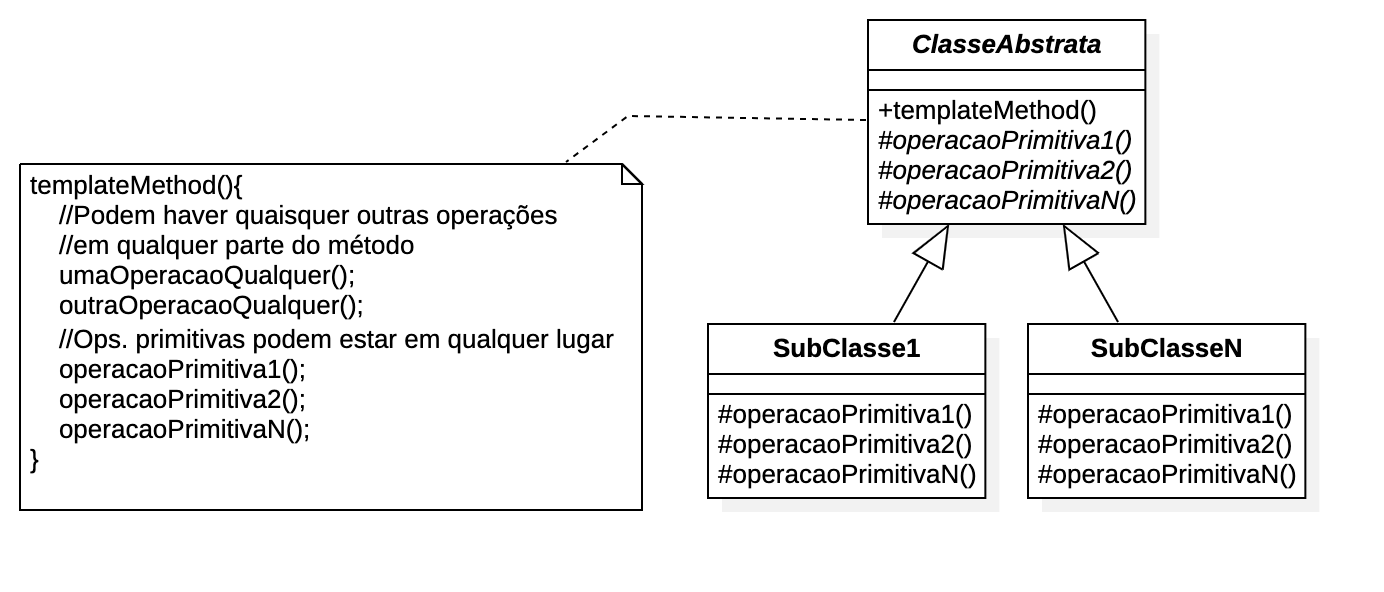
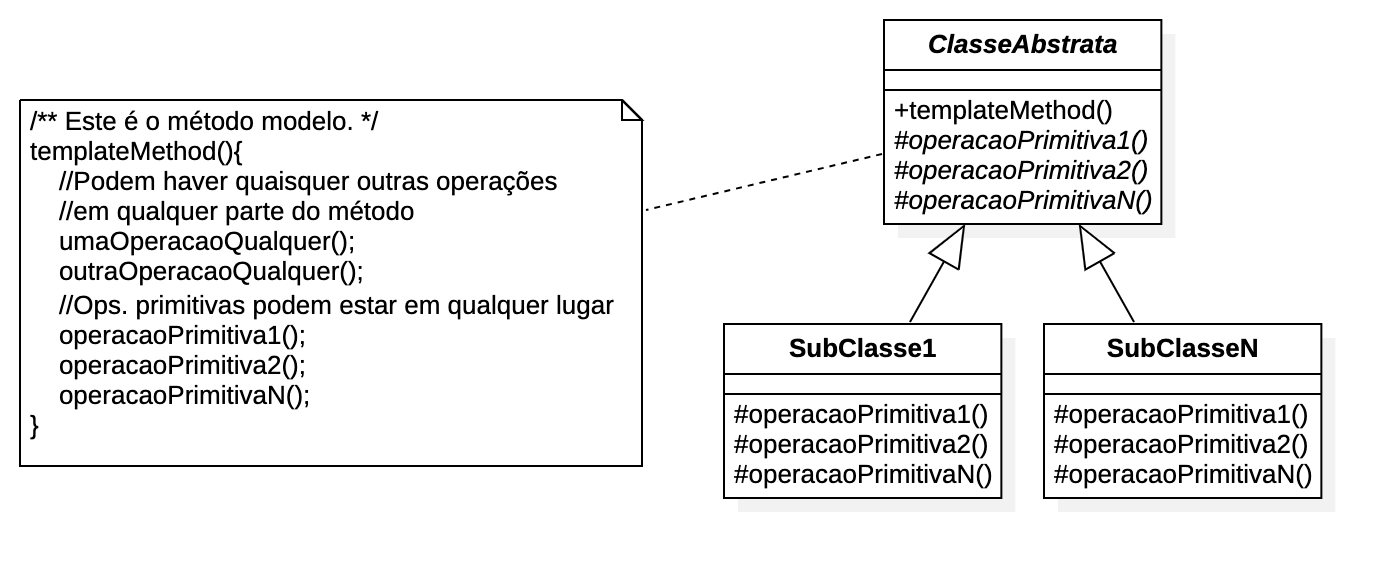
Atualiza projetos Template Method
- Atualiza diagramas.
- Renomeia parâmetros para refletir diagramas.
- Atualiza slides.

Changed region(s): [[0.4971, 0.0311, 0.9632, 0.872], [0.0, 0.1557, 0.4971, 0.8097], [0.0311, 0.8408, 0.466, 0.872]]

diff --git a/comportamentais/template-method/retorno-boleto-template/src/main/java/com/manoelcampos/retornoboleto/LeituraRetornoBancoBrasil.java b/comportamentais/template-method/retorno-boleto-template/src/main/java/com/manoelcampos/retornoboleto/LeituraRetornoBancoBrasil.java
@@ -15,22 +15,22 @@ public class LeituraRetornoBancoBrasil extends ProcessadorBoletos {
 
     // tag::primitive-operation-start[]
     @Override
-    protected Boleto processarLinhaArquivo(String[] linhaArquivo) {
+    protected Boleto processarLinhaArquivo(String[] vetorLinhaArq) {
         Boleto boleto = new Boleto();
-        boleto.setId(Integer.parseInt(linhaArquivo[0]));
-        boleto.setCodBanco(linhaArquivo[1]);
+        boleto.setId(Integer.parseInt(vetorLinhaArq[0]));
+        boleto.setCodBanco(vetorLinhaArq[1]);
         // end::primitive-operation-start[]
 
         boleto.setDataVencimento(
-            LocalDate.parse(linhaArquivo[2], FORMATO_DATA));
+            LocalDate.parse(vetorLinhaArq[2], FORMATO_DATA));
         boleto.setDataPagamento(
-            LocalDate.parse(linhaArquivo[3], FORMATO_DATA).atTime(0, 0, 0));
+            LocalDate.parse(vetorLinhaArq[3], FORMATO_DATA).atTime(0, 0, 0));
 
         // tag::primitive-operation-end[]
-        boleto.setCpfCliente(linhaArquivo[4]);
-        boleto.setValor(Double.parseDouble(linhaArquivo[5]));
-        boleto.setMulta(Double.parseDouble(linhaArquivo[6]));
-        boleto.setJuros(Double.parseDouble(linhaArquivo[7]));
+        boleto.setCpfCliente(vetorLinhaArq[4]);
+        boleto.setValor(Double.parseDouble(vetorLinhaArq[5]));
+        boleto.setMulta(Double.parseDouble(vetorLinhaArq[6]));
+        boleto.setJuros(Double.parseDouble(vetorLinhaArq[7]));
         return boleto;
     }
     // end::primitive-operation-end[]

diff --git a/comportamentais/template-method/retorno-boleto-template-and-strategy/src/main/java/com/manoelcampos/retornoboleto/LeituraRetornoBancoBrasil.java b/comportamentais/template-method/retorno-boleto-template-and-strategy/src/main/java/com/manoelcampos/retornoboleto/LeituraRetornoBancoBrasil.java
@@ -8,20 +8,20 @@ import java.time.LocalDate;
  //tag::class-start[]
 public class LeituraRetornoBancoBrasil implements LeituraRetorno {
     @Override
-    public Boleto processarLinhaArquivo(String[] linhaArquivo) {
+    public Boleto processarLinhaArquivo(String[] vetorLinhaArq) {
         Boleto boleto = new Boleto();
-        boleto.setId(Integer.parseInt(linhaArquivo[0]));
-        boleto.setCodBanco(linhaArquivo[1]);
+        boleto.setId(Integer.parseInt(vetorLinhaArq[0]));
+        boleto.setCodBanco(vetorLinhaArq[1]);
         //end::class-start[]
 
-        boleto.setDataVencimento(LocalDate.parse(linhaArquivo[2], FORMATO_DATA));
-        boleto.setDataPagamento(LocalDate.parse(linhaArquivo[3], FORMATO_DATA).atTime(0, 0, 0));
+        boleto.setDataVencimento(LocalDate.parse(vetorLinhaArq[2], FORMATO_DATA));
+        boleto.setDataPagamento(LocalDate.parse(vetorLinhaArq[3], FORMATO_DATA).atTime(0, 0, 0));
 
         //tag::class-end[]
-        boleto.setCpfCliente(linhaArquivo[4]);
-        boleto.setValor(Double.parseDouble(linhaArquivo[5]));
-        boleto.setMulta(Double.parseDouble(linhaArquivo[6]));
-        boleto.setJuros(Double.parseDouble(linhaArquivo[7]));
+        boleto.setCpfCliente(vetorLinhaArq[4]);
+        boleto.setValor(Double.parseDouble(vetorLinhaArq[5]));
+        boleto.setMulta(Double.parseDouble(vetorLinhaArq[6]));
+        boleto.setJuros(Double.parseDouble(vetorLinhaArq[7]));
         return boleto;
     }
 }

diff --git a/comportamentais/template-method/retorno-boleto-template/src/main/java/com/manoelcampos/retornoboleto/ProcessadorBoletos.java b/comportamentais/template-method/retorno-boleto-template/src/main/java/com/manoelcampos/retornoboleto/ProcessadorBoletos.java
@@ -59,12 +59,12 @@ public abstract class ProcessadorBoletos {
     /**
      * Recebe um vetor com os dados lidos de uma linha de um arquivo
      * de retorno de boleto
-     * @param linhaArquivo vetor contendo os dados de uma linha lida do arquivo,
+     * @param vetorLinhaArq vetor contendo os dados de uma linha lida do arquivo,
      *              onde cada posição representa uma coluna do boleto
      * @return um objeto {@link Boleto} com os dados processados da linha do arquivo
      */
     // tag::primitive-operation[]
-    protected abstract Boleto processarLinhaArquivo(String[] linhaArquivo);
+    protected abstract Boleto processarLinhaArquivo(String[] vetorLinhaArq);
     // end::primitive-operation[]
 
 // tag::class-end[]

diff --git a/comportamentais/template-method/retorno-boleto-template-and-strategy/src/main/java/com/manoelcampos/retornoboleto/LeituraRetorno.java b/comportamentais/template-method/retorno-boleto-template-and-strategy/src/main/java/com/manoelcampos/retornoboleto/LeituraRetorno.java
@@ -32,9 +32,9 @@ public interface LeituraRetorno {
     /**
      * Recebe um vetor com os dados lidos de uma linha de um arquivo
      * de retorno de boleto
-     * @param linhaArquivo vetor contendo os dados de uma linha lida do arquivo,
+     * @param vetorLinhaArq vetor contendo os dados de uma linha lida do arquivo,
      *                     onde cada posição representa uma coluna do boleto
      * @return um objeto {@link Boleto} com os dados processados da linha do arquivo
      */
-    Boleto processarLinhaArquivo(String[] linhaArquivo);
+    Boleto processarLinhaArquivo(String[] vetorLinhaArq);
 }
